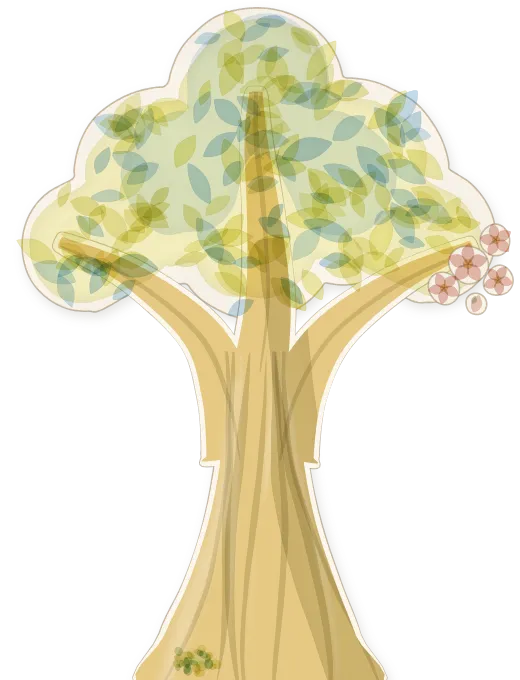
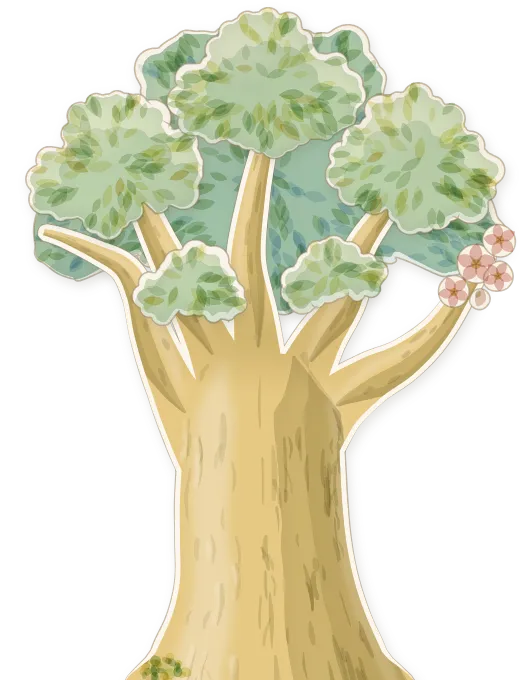
工房ホームページ：世界樹を太い1本の幹に描き直し・枝と葉むらを1本ずつ・根を板根に・妖精の羽と光の粉を軌跡に
- 幹：縦の溝をやめ、太い1つの形を光と陰の面と短い割れ目で描く（細い木の束に見えた）
- 枝：高さ・太さ・曲がりを1本ずつ変えて幹から生やし、枝先ごとに手前の葉むら
- 根：幹のすそから太い板根が左右と手前へ張って土をつかむ。扉は幹の正面に
- 住人の妖精：エルフの2割強の背に縮め、空色の大きな羽で妖精と分かる形に
- 飛ぶ妖精：羽を上へ広げた細長い2枚に。光の粉は飛んだ道筋に残り、その場でまたたいて消える
- 鳥の止まり木を新しい枝の上に・幹の左のすそを寄せてエルフの杖を見せる

diff --git a/style.css b/style.css
@@ -258,28 +258,29 @@ a{color:inherit}
 .flat .r-elf{left:90px;top:61px;width:27px;height:53px;transform-origin:50% 100%;animation:sway 9s ease-in-out infinite}   /* 足もとは前と同じ高さ（114）。世界樹より目立たない大きさ（本人 2026-10-25「世界樹との大きさのバランス」→ 8割） */
 .w-tree .swing{position:absolute;left:30px;top:122px;width:26px;height:56px;transform-origin:50% 7%;animation:swing 5.2s ease-in-out infinite}   /* 遊び場のブランコ：左の枝から下がり、ゆっくり揺れる */
 @keyframes swing{0%,100%{rotate:-3.5deg}50%{rotate:3.5deg}}
-.flat .r-fairy{left:180px;top:121px;width:39px;height:36px;animation:hover 6s ease-in-out infinite}   /* 体を包む光は絵の中に描いた（にじみの影は重い） */
+.flat .r-fairy{left:179.4px;top:158.5px;width:24px;height:22px;animation:hover 6s ease-in-out infinite}   /* 右の枝の上に腰かける（絵の腰の点 12.6,15.5 → 枝の上 192,174）。エルフの2割強の背（本人 2026-10-25「大きすぎる？」）。体を包む光は絵の中に描いた（にじみの影は重い） */
 @keyframes sway{0%,100%{transform:rotate(-.8deg)}50%{transform:rotate(.8deg)}}
 @keyframes hover{0%,100%{transform:translateY(0)}50%{transform:translateY(-1.5px)}}
 
-/* 妖精の光：図書館に浮かび、本がひらくと世界樹のてっぺんへ飛ぶ。光の中に小さな体と、はばたく2枚の羽が少しだけ見え、金の粉が舞い落ちる
-   （本人 2026-10-25「妖精なら姿が少しだけ見える感じがいいし、きらきらと光の粉を出しながら飛んでほしい」）。動きは scale・rotate・translate・opacity だけ */
+/* 妖精の光：図書館に浮かび、本がひらくと世界樹のてっぺんへ飛ぶ。光の中に小さな体と、はばたく羽が少しだけ見える
+   （本人 2026-10-25「妖精なら姿が少しだけ見える感じがいいし、きらきらと光の粉を出しながら飛んでほしい」）。動きは scale・rotate・translate・opacity だけ
+   羽は上へ広げた細長い2枚（横に寝かせた楕円は、光の上の2つの玉に見えた）。粉は app.js が飛んだ跡に置く（.dust） */
 .fairy{position:absolute;left:128px;top:300px;width:12px;height:12px;border-radius:50%;pointer-events:none;
   background:radial-gradient(circle,#fffbe8 0 28%,rgba(255,224,150,.9) 46%,rgba(255,214,150,0) 72%);box-shadow:0 0 16px 7px rgba(255,212,140,.42);
   animation:bob 3.4s ease-in-out infinite;transition:left 1.1s ease-in-out 2.5s,top 1.1s ease-in-out 2.5s}
 .open .fairy{left:var(--fx,150px);top:var(--fy,150px)}
 @keyframes bob{0%,100%{transform:translateY(0)}50%{transform:translateY(-7px)}}
-.fairy .fw{position:absolute;top:-3px;width:11px;height:7px;border-radius:50%;background:radial-gradient(ellipse at 35% 50%,rgba(255,255,255,.8),rgba(214,236,255,.35) 60%,rgba(214,236,255,0) 76%);animation:flap .2s ease-in-out infinite alternate}
-.fairy .fw:nth-child(1){left:-8px;transform-origin:100% 70%;rotate:22deg}
-.fairy .fw:nth-child(2){right:-8px;transform-origin:0 70%;rotate:-22deg}
-@keyframes flap{from{scale:1 1}to{scale:.35 1}}
+.fairy .fw{position:absolute;top:-7px;width:6px;height:12px;border-radius:50% 50% 45% 45% / 60% 60% 40% 40%;
+  background:radial-gradient(ellipse at 50% 35%,rgba(255,255,255,.8),rgba(220,238,255,.42) 60%,rgba(220,238,255,.14));box-shadow:0 0 2px rgba(255,250,235,.7);animation:flap .18s ease-in-out infinite alternate}
+.fairy .fw:nth-child(1){left:-.6px;transform-origin:100% 100%;rotate:-26deg}
+.fairy .fw:nth-child(2){left:6.6px;transform-origin:0 100%;rotate:26deg}
+@keyframes flap{from{scale:1 1}to{scale:.3 1}}
 .fairy .fb{position:absolute;left:4.6px;top:2.4px;width:2.8px;height:7px;border-radius:1.6px;background:rgba(255,232,210,.95)}   /* 光の中の小さな体 */
-.fairy .fd{position:absolute;left:5px;top:6px;width:2px;height:2px;border-radius:50%;background:#fff3c4;opacity:0;animation:dust 1.6s linear infinite}
-.fairy .fd:nth-child(4){animation-delay:-.32s;--dx:-6px}
-.fairy .fd:nth-child(5){animation-delay:-.64s;--dx:5px}
-.fairy .fd:nth-child(6){animation-delay:-.96s;--dx:-3px}
-.fairy .fd:nth-child(7){animation-delay:-1.28s;--dx:7px}
-@keyframes dust{0%{opacity:0;translate:0 0}12%{opacity:.95}100%{opacity:0;translate:var(--dx, 2px) 20px}}
+/* 光の粉：飛んだ跡の場所に残り、その場でまたたいて消える（本人 2026-10-25「下に流れるのではなく、移動した軌跡に沿ってきらきら舞う」）。金（白い粒は雪に見える） */
+.dust{position:absolute;width:3px;height:3px;margin:-1.5px 0 0 -1.5px;border-radius:50%;pointer-events:none;opacity:0;
+  background:radial-gradient(circle,#fffbe8 0 30%,rgba(255,214,140,.85) 58%,rgba(255,214,140,0))}
+.dust.x::before,.dust.x::after{content:'';position:absolute;left:50%;top:50%;width:8px;height:1px;margin:-.5px 0 0 -4px;background:linear-gradient(90deg,rgba(255,240,200,0),#fff3d0,rgba(255,240,200,0))}
+.dust.x::after{rotate:90deg}
 
 .open-hit{position:absolute;inset:0;width:100%;height:100%;background:none;border:0;padding:0;cursor:pointer;-webkit-tap-highlight-color:transparent}
 .open .open-hit{display:none}
@@ -392,5 +393,5 @@ main>nav,main>section.about{max-width:560px;margin:0 auto;padding:0 16px}
 /* 動きを減らす設定：小さな動きは止め、時刻の光（静止画）だけ。帯は流さずに出して消す */
 @media (prefers-reduced-motion:reduce){
   .fairy,.fairy .fw,.flat .r-elf,.flat .r-fairy,.w-tree .swing,.bubble,.bubble .who,.w-tree,.sc,.spark,.lamp,.flies span,.t-stars::before,.t-stars::after,.bow{animation:none!important}
-  .motes,.spark,.sky,.fairy .fd{display:none}
+  .motes,.spark,.sky,.dust{display:none}
 }

diff --git a/app.js b/app.js
@@ -662,7 +662,7 @@
     if (g.a > 0.9) for (const b of birds) if (b.st === 'sit' && Math.random() < 0.6) b.leaveAt = g.t0 + Math.max(0, (d > 0 ? b.x + 525 - g.x0 : g.x0 - b.x - 525) / g.c);   // 強い風が来たら飛び立つ
   }
   // 鳥：1コマ 30×22（scenes.js の BIRD）。止まりに来る鳥は 0.45 倍＝体長およそ11（エルフの背 56 の5分の1。本人 2026-10-25「人に対して小鳥が大きすぎ」）・遠くの群れは 0.22 倍。コマ＝0 羽を上・1 羽を下・2 滑空・3 止まる・4 ついばむ。足の先(14, 20.6)を止まる点に合わせる
-  const PERCH = [['.w-tree', 66 / 260, 126 / 340], ['.w-tree', 168 / 260, 136 / 340], ['.f-cave', 65 / 150, 21 / 160]], FOOT = [14, 20.6];
+  const PERCH = [['.w-tree', 58 / 260, 126.5 / 340], ['.w-tree', 210 / 260, 163.5 / 340], ['.f-cave', 65 / 150, 21 / 160]], FOOT = [14, 20.6];   // 世界樹の2つは枝の上の面
   function perchAt(i) {
     const [sel, fx, fy] = PERCH[i], sr = stage.getBoundingClientRect(), r = stage.querySelector(sel).getBoundingClientRect();
     return [(r.left - sr.left + r.width * fx) / scale, (r.top - sr.top + r.height * fy) / scale];
@@ -747,6 +747,28 @@
     for (const tr of trees) { tr.a = tr.v = 0; tr.s = ''; tr.e.style.transform = ''; }
     if (wt) wt.style.transform = '';
   }
+
+  // ---------- 妖精の光の粉：飛んだ道筋に残り、その場でまたたいて消える（本人 2026-10-25）----------
+  const fairyEl = ui.querySelector('.fairy');
+  let dustTimer = 0, flying = false;
+  function dustAt(x, y) {
+    const d = el('i', Math.random() < 0.4 ? 'dust x' : 'dust'), s = rnd(0.7, 1.35);
+    d.style.left = `${(x + rnd(-2.5, 2.5)).toFixed(1)}px`; d.style.top = `${(y + rnd(-2.5, 2.5)).toFixed(1)}px`;
+    fairyEl.before(d);
+    d.animate([{ opacity: 0, transform: 'scale(.3)' }, { offset: 0.15, opacity: 1, transform: `scale(${s})` }, { offset: 0.38, opacity: 0.3 }, { offset: 0.6, opacity: 0.9 },
+      { opacity: 0, transform: `translate(${rnd(-2, 2).toFixed(1)}px, ${rnd(-2, 1.5).toFixed(1)}px) scale(.2)` }], { duration: rnd(900, 1600), easing: 'ease-out' }).onfinish = () => d.remove();
+  }
+  function dustTick() {
+    dustTimer = 0;
+    if (reduce || document.hidden) return;
+    const cs = getComputedStyle(fairyEl), m = cs.transform === 'none' ? null : new DOMMatrixReadOnly(cs.transform);
+    dustAt(parseFloat(cs.left) + 6, parseFloat(cs.top) + 6 + (m ? m.m42 : 0));
+    dustTimer = setTimeout(dustTick, flying ? 30 : rnd(320, 560));
+  }
+  fairyEl.addEventListener('transitionstart', (e) => { if (e.propertyName === 'left') { flying = true; clearTimeout(dustTimer); dustTick(); } });
+  for (const t of ['transitionend', 'transitioncancel']) fairyEl.addEventListener(t, (e) => { if (e.propertyName === 'left') flying = false; });
+  document.addEventListener('visibilitychange', () => { if (!document.hidden && !dustTimer) dustTick(); });
+  dustTick();
 
   // ---------- はじめ ----------
   fit(); placeTrees(); applyLight(); measure(); refreshMarks();

diff --git a/index.html b/index.html
@@ -43,7 +43,7 @@
           <div class="flat f-cloud"><img data-src="img/f_cloud.webp" alt="" width="320" height="400"></div>
           <div class="flat f-spring"><img data-src="img/f_spring.webp" alt="" width="150" height="150"><span class="spark k1"></span><span class="spark k2"></span><span class="spark k3"></span><img class="resident r-elf" data-src="img/r_elf.webp" alt="" width="27" height="53"></div>
           <div class="flat f-cave"><img data-src="img/f_cave.webp" alt="" width="150" height="160"></div>
-          <div class="flat f-world"><div class="w-tree"><img data-src="img/f_tree.webp" alt="" width="260" height="340"><img class="swing" data-src="img/r_swing.webp" alt="" width="26" height="56"><img class="resident r-fairy" data-src="img/r_fairy.webp" alt="" width="39" height="36"></div><div class="w-roots"><img data-src="img/f_roots.webp" alt="" width="200" height="110"></div></div>
+          <div class="flat f-world"><div class="w-tree"><img data-src="img/f_tree.webp" alt="" width="260" height="340"><img class="swing" data-src="img/r_swing.webp" alt="" width="26" height="56"><img class="resident r-fairy" data-src="img/r_fairy.webp" alt="" width="24" height="22"></div><div class="w-roots"><img data-src="img/f_roots.webp" alt="" width="200" height="110"></div></div>
           <div class="cover">
             <div class="cv-front"><img src="img/cover.webp" alt="" width="160" height="200"><span class="cv-title"><span class="cv-s">AI内製化工房の</span><span class="cv-l">地図</span></span></div>
             <div class="cv-back"><img data-src="img/spread.webp" alt="" width="320" height="200"></div>
@@ -62,7 +62,7 @@
         <div class="flies"><span></span><span></span><span></span><span></span><span></span><span></span><span></span><span></span><span></span><span></span></div>
         <div class="motes"><span></span><span></span><span></span><span></span><span></span><span></span><span></span></div>
       </div>
-      <span class="fairy" aria-hidden="true"><i class="fw"></i><i class="fw"></i><i class="fb"></i><i class="fd"></i><i class="fd"></i><i class="fd"></i><i class="fd"></i><i class="fd"></i></span>
+      <span class="fairy" aria-hidden="true"><i class="fw"></i><i class="fw"></i><i class="fb"></i></span>
       <button class="open-hit" id="openBtn" type="button" aria-label="本をひらく"></button>
       <div class="labels" id="labels"></div>
       <button class="np" id="np" type="button" hidden><span class="np-mark" aria-hidden="true">♪</span><span class="np-win"><span class="np-text" id="npText"></span></span></button>
